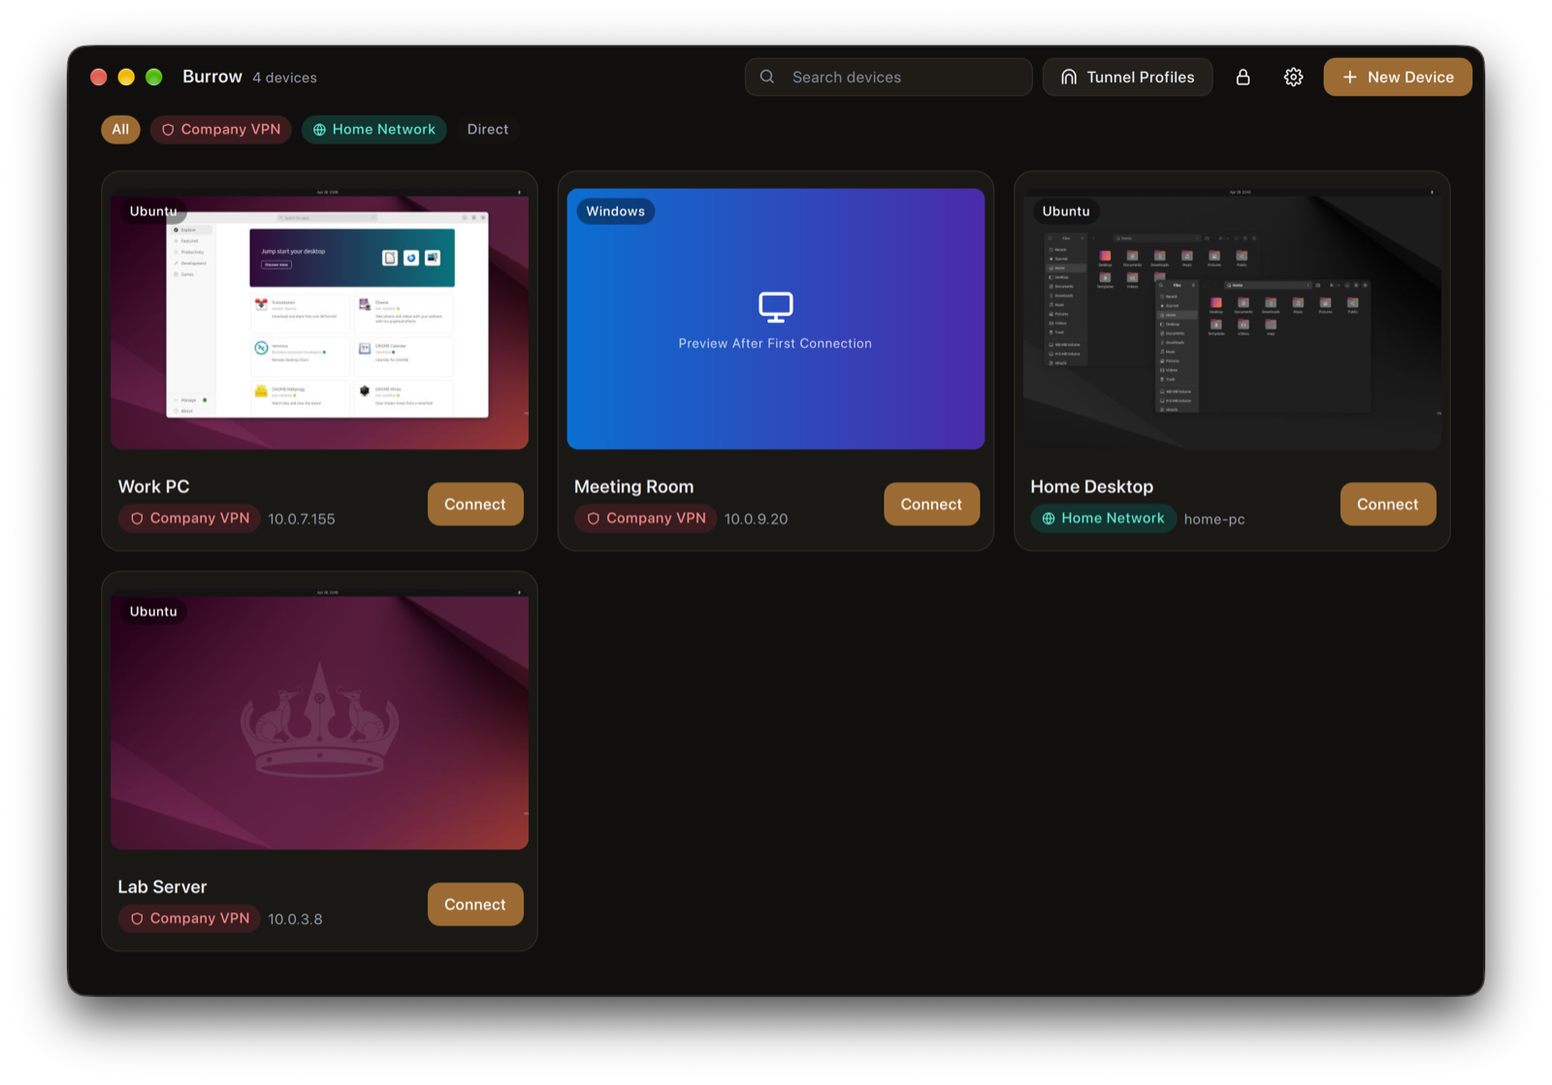
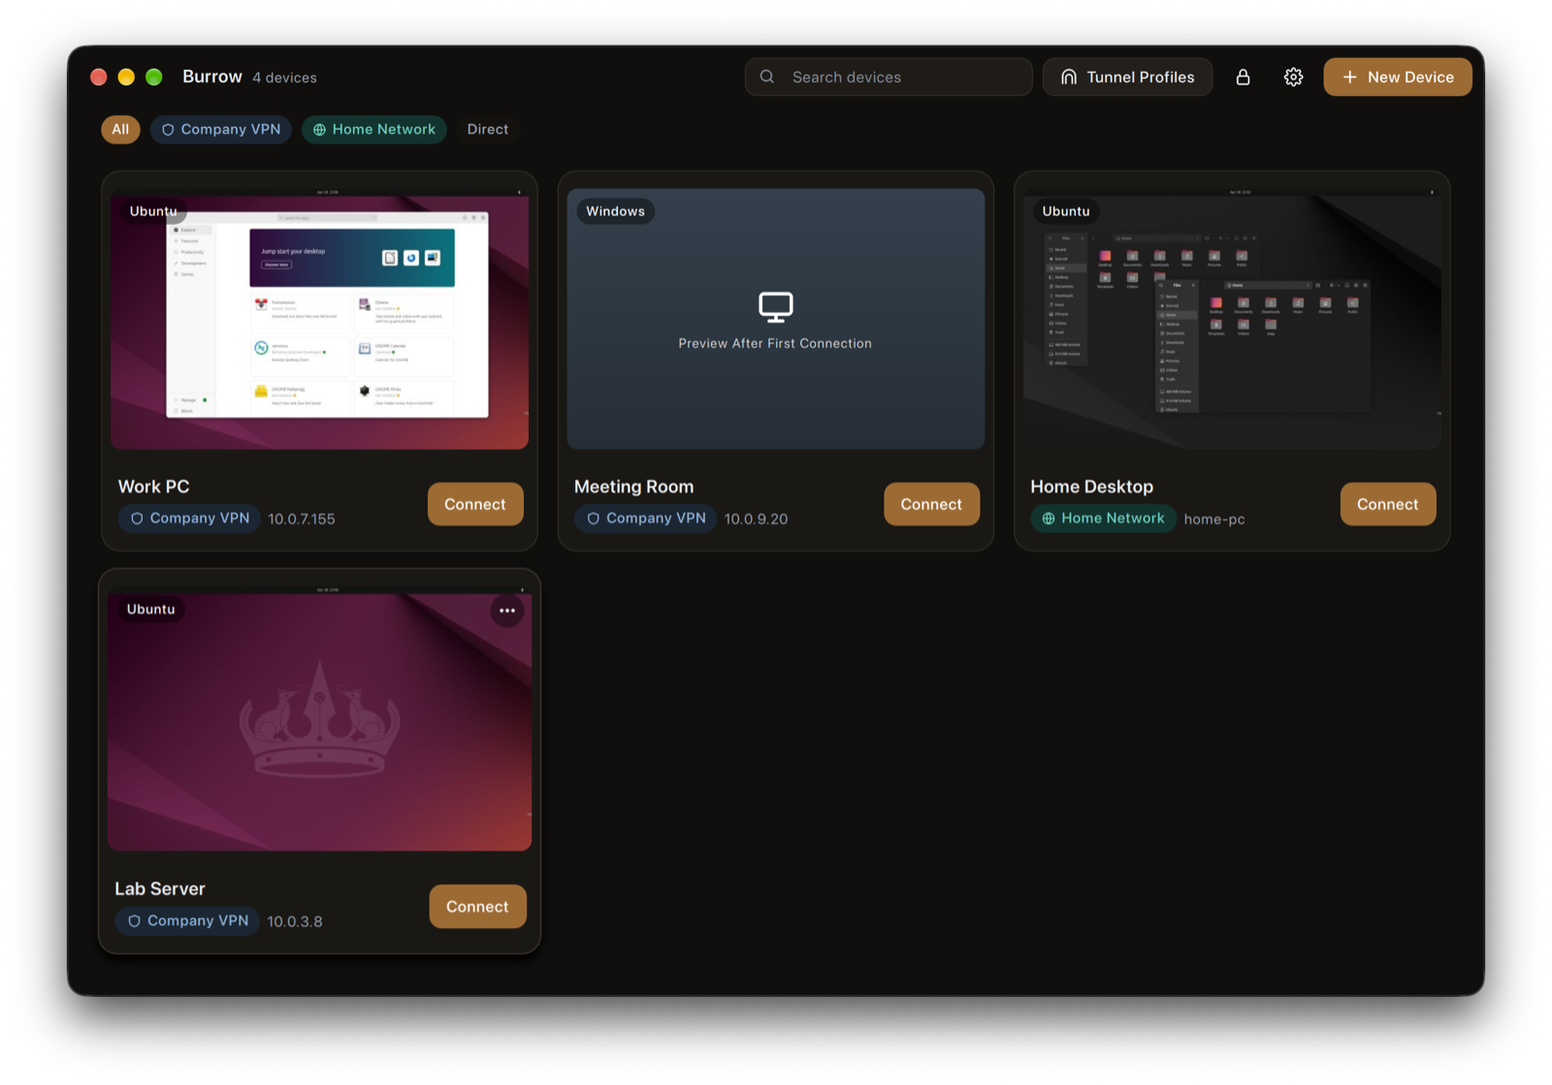
docs: rewrite the README in JumpDesk's layout with fresh screenshots
English only. Adds tools/readme-shots.sh, which re-takes the eight README
screenshots from the built app with demo data and real window frames.

diff --git a/README.md b/README.md
@@ -1,175 +1,181 @@
 <p align="center">
-  <picture>
-    <source media="(prefers-color-scheme: dark)" srcset="docs/images/gallery-dark.png">
-    <img src="docs/images/gallery-light.png" alt="Burrow's device gallery: computers as cards with their last screen" width="820">
-  </picture>
+  <img src="app/resources/icons/256x256.png" width="112" alt="Burrow logo">
 </p>
 
 <h1 align="center">Burrow</h1>
 
 <p align="center">
-  <b>Remote desktop through a private tunnel — without touching the rest of your computer.</b><br>
-  An open-source remote desktop app for macOS: RDP to Windows and Ubuntu, Screen Sharing to Macs,
-  with GlobalProtect, Tailscale and Cloudflare tunnels built in.
+  An open-source remote desktop app for macOS with <strong>private tunnels built in</strong>:
+  RDP to Windows and Ubuntu, Screen Sharing to Macs.
 </p>
 
 <p align="center">
-  <a href="https://github.com/metin-aydin/Burrow/releases/latest"><img alt="Latest release" src="https://img.shields.io/github/v/release/metin-aydin/Burrow?display_name=tag&sort=semver"></a>
-  <a href="https://github.com/metin-aydin/Burrow/actions/workflows/ci.yml"><img alt="CI" src="https://github.com/metin-aydin/Burrow/actions/workflows/ci.yml/badge.svg?branch=development"></a>
-  <a href="LICENSE"><img alt="License: MIT" src="https://img.shields.io/badge/license-MIT-blue.svg"></a>
-  <img alt="Platform: macOS" src="https://img.shields.io/badge/platform-macOS%20(Apple%20silicon)-lightgrey">
+  <a href="https://github.com/metin-aydin/Burrow/actions/workflows/ci.yml"><img src="https://github.com/metin-aydin/Burrow/actions/workflows/ci.yml/badge.svg" alt="CI"></a>
+  <a href="LICENSE"><img src="https://img.shields.io/badge/license-MIT-blue.svg" alt="License: MIT"></a>
 </p>
 
-> **[Türkçe açıklama aşağıda ↓](#türkçe)**
+Burrow puts every computer you reach into one gallery, each card showing its last screen. It connects to Windows and
+Ubuntu over RDP and to Macs over Screen Sharing, and it opens the **GlobalProtect, Tailscale or Cloudflare tunnel**
+those computers sit behind by itself, inside the app only: your browser, calls and the rest of the system stay on your
+normal network. Remote monitors open as tabs that you can drag onto your own displays, one-time codes are typed for
+you, and every secret stays in an encrypted vault on your Mac.
 
----
+> Burrow is an independent project and is not affiliated with Palo Alto Networks, Tailscale, Cloudflare or Apple.
 
-## Why Burrow?
+<p align="center">
+  <picture>
+    <source media="(prefers-color-scheme: dark)" srcset="docs/images/gallery-dark.png">
+    <img src="docs/images/gallery-light.png" alt="The device gallery: computers as cards with their last screen, filtered by tunnel">
+  </picture>
+</p>
 
-Reaching your work computer usually means switching on a VPN that reroutes *all* of your traffic, then
-opening a separate remote desktop app that doesn't always cooperate. Burrow does both in one place:
+## Tunnels inside the app
 
-- **The tunnel lives inside the app.** GlobalProtect (openconnect), Tailscale (tsnet) and Cloudflare Access
-  run in userspace, only for Burrow's own connections. Your browser, calls and the rest of the system stay
-  on your normal network. No admin rights, no system VPN.
-- **One window, every screen.** Each remote monitor opens as a tab; drag a tab onto another display to give
-  it its own window, full screen if you like. Burrow remembers the layout per computer.
-- **Signs in for you, OTP included.** Import your authenticator QR code once and Burrow types the one-time
-  code itself, including two-step portal and gateway flows.
-- **Everything stays on your Mac, encrypted.** Computers, passwords, OTP secrets and screen previews live in
-  a local vault behind your master password (Argon2id + XChaCha20-Poly1305), with optional Touch ID.
-  No cloud, no account.
+Reaching a work computer usually means switching on a VPN that reroutes all of your traffic, then opening a separate
+remote desktop app. Burrow opens the tunnel itself, only for its own connections.
+
+![A GlobalProtect tunnel profile with automatic one-time codes](docs/images/tunnel-editor.png)
+
+- **Nothing changes on your system.** GlobalProtect (openconnect), Tailscale (tsnet) and Cloudflare Access run in
+  userspace inside Burrow. There is no system VPN, no network extension and no admin password.
+- **GlobalProtect with one-time codes.** Import your authenticator's QR code or `otpauth://` link once and Burrow types
+  the code for you, appended to the password or in a separate step, including two-step portal and gateway flows.
+- **Tailscale and Headscale.** Sign in with one button in your browser, then pick the machines in your tailnet to add
+  them as devices.
+- **Cloudflare Access.** Reach computers published with cloudflared; you sign in once in the browser and the token is
+  kept in the vault.
+- **Tunnels follow your devices.** Each device picks its tunnel profile; connecting to it opens the tunnel, and the
+  gallery shows which tunnels are up.
+- **A test before you save.** Each profile can be tested on the spot; a rejected login is never retried, so your
+  account is not locked out.
+
+| | |
+| --- | --- |
+| ![The tunnel profiles list](docs/images/tunnel-profiles.png) | ![A Tailscale tunnel profile](docs/images/tailscale-editor.png) |
+| **Tunnel profiles** with their type, server and how many devices use them. | **Tailscale**: nothing to fill in; sign in, then import machines from your tailnet. |
+
+**Security.** Computers, passwords, OTP keys and screen previews live in a local vault encrypted with your master
+password (Argon2id and XChaCha20-Poly1305), and the vault can be unlocked with Touch ID. Nothing is sent to a cloud
+service and there is no account. RDP servers are pinned on first use and Burrow refuses to connect if the certificate
+changes. Secrets are never written to logs. To report a vulnerability, see [SECURITY.md](SECURITY.md).
 
 ## Features
 
+- **Gallery** of every computer as a card with its last screen, filtered by tunnel and searchable.
+- **RDP to Windows and Ubuntu** with FreeRDP 3: H.264 (AVC444/AVC420) decoded in hardware, progressive RemoteFX as a
+  fallback, GNOME Remote Login hand-over and certificate pinning.
+- **Screen Sharing to Macs** with a built-in VNC client that speaks Apple's protocol: sign in with the Mac's user,
+  encrypted session, the Mac's displays as tabs, Adaptive picture quality and the Mac's own pointer shapes.
+- **Multi-monitor**: one remote monitor per tab; drag a tab onto another display to give it its own window, full
+  screen if you like. Burrow remembers the layout for each computer.
+- **Tunnels**: GlobalProtect with OTP (TOTP SHA-1/256/512), Tailscale and Headscale, Cloudflare Access. See
+  [Tunnels inside the app](#tunnels-inside-the-app).
+- **Sessions**: automatic sign-in and an option to lock the remote computer when you disconnect.
+- **Clipboard and keyboard**: two-way clipboard over RDP (text, rich text, images); Mac shortcuts translated
+  (Cmd+C → Ctrl+C) or swapped.
+- **Encrypted local vault** with a master password, Touch ID and auto-lock after inactivity; Burrow keeps running in
+  the menu bar when its window is closed.
+- **In-app updates** from GitHub Releases, verified by SHA-256 and the Developer ID team before they are installed.
+- English and Turkish interface, light and dark themes, VoiceOver labels and keyboard navigation.
+
+## Screenshots
+
 | | |
-|---|---|
-| **Gallery** | Every computer as a card with its last screen, filtered by tunnel, searchable |
-| **RDP** (Windows, Ubuntu) | FreeRDP 3 with H.264 (AVC444/AVC420) decoded in hardware, progressive RemoteFX fallback, one remote monitor per Mac display, GNOME Remote Login hand-over, certificate pinning |
-| **Macs** (Screen Sharing) | Built-in VNC client speaking Apple's own protocol: Mac user sign-in, encrypted session, the Mac's displays as tabs, Apple's Adaptive picture, the Mac's pointer shapes, Cmd stays Cmd |
-| **Tunnels** | GlobalProtect with OTP (TOTP SHA-1/256/512, appended or separate), Tailscale and Headscale with one-button sign-in and device import, Cloudflare Access |
-| **Sessions** | Automatic sign-in, lock the remote computer when you disconnect, tabs and windows that remember where you left them |
-| **Clipboard & keyboard** | Two-way clipboard (text, rich text, images over RDP), Mac shortcuts translated (Cmd+C → Ctrl+C) or swapped |
-| **App** | Light and dark appearance, English and Turkish, menu bar presence with auto-lock |
-| **Updates** | Signed and notarized releases; the app updates itself and verifies every download (SHA-256 and the Developer ID team) |
+| --- | --- |
+| ![The lock screen](docs/images/lock-screen.png) | ![The gallery in the dark theme](docs/images/gallery-dark.png) |
+| **Lock screen**: the vault opens with your master password or Touch ID. | **Gallery** in the dark theme, with each computer's tunnel and address. |
+| ![Adding a Mac over Screen Sharing](docs/images/device-editor.png) | ![A GlobalProtect profile with automatic codes](docs/images/tunnel-editor.png) |
+| **New device**: Windows, Ubuntu or a Mac, with its address, tunnel and user. | **GlobalProtect** with one-time codes from your authenticator. |
+| ![Settings](docs/images/settings.png) | ![The tunnel profiles list](docs/images/tunnel-profiles.png) |
+| **Settings**: language, appearance, Touch ID, auto-lock, master password and updates. | **Tunnel profiles**, tested and used by your devices. |
 
-<p align="center">
-  <img src="docs/images/device-editor.png" alt="Adding a Mac: Screen Sharing over VNC" width="49%">
-  <img src="docs/images/tunnel-editor.png" alt="A GlobalProtect tunnel profile with automatic one-time codes" width="49%">
-</p>
+Screenshots are taken from the built app with sample data by `tools/readme-shots.sh`.
 
-## Install
+## Download
 
-Download the latest `.dmg` from [Releases](https://github.com/metin-aydin/Burrow/releases/latest) (the
-first release is on its way; until then, [build it](#building-macos)), open it and drag **Burrow** to
-Applications. Builds are signed with Developer ID and notarized by Apple; later
-versions install themselves from inside the app.
+Get the latest version from the [Releases](https://github.com/metin-aydin/Burrow/releases/latest) page. The first
+release is being prepared; until then, [build it](#development).
 
-Requires macOS 13 or later on Apple silicon. Ubuntu and Windows builds are planned.
+| Platform | File | Updates |
+| --- | --- | --- |
+| macOS 13 or later (Apple Silicon) | `Burrow-<version>-mac-arm64.dmg` | In the app |
 
-To reach a Mac, turn on **System Settings → General → Sharing → Screen Sharing** on it. To reach Ubuntu,
-turn on **Remote Desktop** in Settings → System (or Remote Login, where your GNOME offers it).
+Open the `.dmg` and drag **Burrow** to Applications. Builds for Ubuntu and Windows are planned.
 
-## Status
+To reach a Mac, turn on **System Settings → General → Sharing → Screen Sharing** on it. To reach Ubuntu, turn on
+**Remote Desktop** in **Settings → System** (or Remote Login, where your GNOME offers it).
 
-Burrow is young and moving fast.
+Burrow looks for a new version 15 seconds after startup and every six hours. When it finds one, **Settings → Updates**
+downloads it, installs it and restarts the app. Nothing is downloaded or installed without asking, and automatic
+checks can be turned off there.
 
-- [x] Encrypted vault, master password, Touch ID
-- [x] Embedded RDP sessions: multi-monitor tabs and windows, clipboard, H.264
-- [x] GlobalProtect, Tailscale and Cloudflare tunnels inside the app
-- [x] Macs over Screen Sharing (VNC), with their displays as tabs
-- [x] Signed releases and in-app updates
-- [ ] `burrow-agent` for Ubuntu: unlock on connect, lock on disconnect, turn the office monitor off
-- [ ] Clipboard for Macs (Apple's pasteboard protocol)
-- [ ] Ubuntu and Windows builds
+## Development
 
-Requirements: [docs/SPEC.md](docs/SPEC.md) · Architecture decisions: [docs/decisions](docs/decisions)
-
-## Security
-
-- Secrets never leave the encrypted vault; they are not written to logs or test fixtures.
-- RDP servers are pinned on first use and Burrow refuses to connect if the certificate changes.
-- A wrong password is never retried automatically, so an account is not locked out.
-- Updates come only over HTTPS from this repository's releases, and are installed only if the archive
-  matches its SHA-256 and the new app is signed by the same Apple developer team.
-
-Found a vulnerability? Please report it privately — see [SECURITY.md](SECURITY.md).
-
-## Architecture
-
-```
-┌──────────────────── Burrow.app ────────────────────┐
-│  QML UI  ──  AppController (C++)                   │
-│                │                  │                │
-│     RDP: FreeRDP 3      VNC: own RFB client        │
-│     (H.264 via          (Apple 003.889, Adaptive)  │
-│      VideoToolbox)                │                │
-│                └───────┬──────────┘                │
-│        netcore (Go, linked as a C archive)         │
-│        ├─ libopenconnect ... GlobalProtect         │
-│        ├─ tsnet ............ Tailscale             │
-│        ├─ Cloudflare Access (WebSocket)            │
-│        └─ encrypted vault, TOTP                    │
-└────────────────────────────────────────────────────┘
-```
-
-Qt 6 (QML + C++20) · FreeRDP 3 · Go · see [ADR 0001](docs/decisions/0001-tech-stack.md)
-
-## Building (macOS)
+Requirements: macOS, Homebrew, Xcode command line tools. Burrow is written in Qt 6 (QML and C++20) with FreeRDP 3 and
+a Go network core linked as a C archive ([ADR 0001](docs/decisions/0001-tech-stack.md)).
 
 ```bash
+git clone https://github.com/metin-aydin/Burrow.git
+cd Burrow
 brew install go cmake ninja qt freerdp openconnect
 cmake -S . -B build -G Ninja -DCMAKE_PREFIX_PATH="$(brew --prefix qt);$(brew --prefix freerdp)"
 cmake --build build
 open build/app/Burrow.app
 ```
 
-Tests: `cd build && ctest` (C++) · `cd netcore && go test ./...` (Go)
-
-Try the interface with sample computers, in a throwaway vault:
+Try the interface with sample computers in a throwaway vault:
 
 ```bash
 BURROW_VAULT=/tmp/burrow-demo/vault.json build/app/Burrow.app/Contents/MacOS/Burrow --seed-demo
 ```
 
-## Project layout
+Checks:
 
-- `app/` — the Qt app: QML interface (`qml/`), controller, RDP and VNC sessions, vault wrapper
-- `netcore/` — Go network core: tunnels, TOTP, encrypted vault
-- `docs/` — requirements, architecture decisions (ADR), research, project memory
-- `.github/` — CI and automated releases (`development` → `master`)
+```bash
+(cd build && ctest --output-on-failure)   # C++ tests
+(cd netcore && go test ./...)             # Go tests
+cmake --build build --target Burrow_lupdate && git diff --exit-code -- app/i18n   # translations are up to date
+```
 
-## Contributing
+Requirements are in [docs/SPEC.md](docs/SPEC.md) and architecture decisions in [docs/decisions](docs/decisions).
 
-Issues and pull requests are welcome. Please read [CLAUDE.md](CLAUDE.md) first: it holds the project rules
-for people and AI assistants alike. Commits follow [Conventional Commits](https://www.conventionalcommits.org/);
-version numbers are derived from them.
+## Branches and releases
+
+- Work happens on `development`. `master` only changes through pull requests from `development`.
+- Each merge into `master` publishes a release. The [Release workflow](.github/workflows/release.yml) picks the
+  version, builds and signs the macOS package and attaches it to a new GitHub release, which the in-app updater then
+  offers to users. If any build fails, the draft release is deleted.
+- The description of that pull request becomes the release notes (see the
+  [pull request template](.github/pull_request_template.md)).
+- Versions come from [Conventional Commits](https://www.conventionalcommits.org/) since the previous release: `feat:`
+  raises the minor number, a breaking change (`feat!:` or `BREAKING CHANGE:`) the major number, anything else the
+  patch number ([ADR 0002](docs/decisions/0002-release-and-auto-update.md)).
+
+## Packaging
+
+```bash
+cmake -S . -B build -G Ninja -DCMAKE_BUILD_TYPE=Release \
+  -DCMAKE_PREFIX_PATH="$(brew --prefix qt);$(brew --prefix freerdp)"
+cmake --build build
+"$(brew --prefix qt)/bin/macdeployqt" build/app/Burrow.app -qmldir=app/qml   # bundle Qt, QML and libraries
+```
+
+Release builds of the macOS app are signed with a Developer ID certificate and notarized by Apple. The Release
+workflow reads these secrets from the `release` environment: `CSC_LINK` (the base64-encoded `.p12` certificate),
+`CSC_KEY_PASSWORD`, `APPLE_ID`, `APPLE_APP_SPECIFIC_PASSWORD` and `APPLE_TEAM_ID`. Without them the release stops,
+and local builds are left unsigned.
+
+## Issues and contributions
+
+Bug reports and feature requests are welcome on [GitHub Issues](https://github.com/metin-aydin/Burrow/issues).
+Pull requests go to the `development` branch, with commit messages in Conventional Commits format.
+User-facing text is written in English in the source and translated in `app/i18n/burrow_tr.ts`; run the
+`Burrow_lupdate` target before opening a pull request. [CLAUDE.md](CLAUDE.md) holds the project rules for people and AI
+assistants alike.
 
 ## License
 
-[MIT](LICENSE). Third-party components keep their own licenses: FreeRDP (Apache-2.0), Qt (LGPL-3.0),
-libopenconnect (LGPL-2.1), Tailscale (BSD-3-Clause). Burrow's Mac support builds on the Apple Screen
-Sharing research of [zDesk](https://github.com/andrewtheguy/zdesk) (MIT); see
-[THIRD_PARTY_NOTICES.md](THIRD_PARTY_NOTICES.md). Sample previews are GPL-licensed Ubuntu screenshots from
-Wikimedia Commons ([attribution](docs/assets/demo/ATTRIBUTION.md)).
-
----
-
-## Türkçe
-
-**Burrow**, iş veya ev bilgisayarına uzak masaüstüyle bağlanmanı sağlayan açık kaynak bir macOS
-uygulamasıdır. Windows ve Ubuntu'ya RDP ile, Mac'lere Ekran Paylaşımı ile bağlanır. GlobalProtect,
-Tailscale ve Cloudflare tünellerini **yalnızca uygulamanın içinde** açar: bilgisayarının geri kalan trafiği
-etkilenmez, yönetici yetkisi gerekmez.
-
-- **Tek pencere, bütün ekranlar:** her uzak monitör bir sekme; sekmeyi başka bir ekrana sürükleyip ayrı
-  pencere yapabilirsin, Burrow düzeni bilgisayar başına hatırlar.
-- **Otomatik OTP:** authenticator QR kodunu bir kez içe aktar, tek kullanımlık kodu Burrow girer.
-- **Şifreli yerel kasa:** cihazlar, şifreler, OTP anahtarları ve önizlemeler ana şifrenle şifrelenip yalnızca
-  bu Mac'te saklanır; Touch ID ile açılabilir.
-- **Mac'ler:** Ekran Paylaşımı ile, Mac kullanıcı adınla; Mac'in ekranları sekme olarak gelir.
-- **Güncellemeler:** imzalı ve Apple onaylı sürümler; uygulama kendini günceller ve her indirmeyi doğrular.
-
-Kurulum: [Releases](https://github.com/metin-aydin/Burrow/releases/latest) sayfasından `.dmg` dosyasını indir.
-Gereksinimler [docs/SPEC.md](docs/SPEC.md), kararlar [docs/decisions](docs/decisions) altında. Proje
-kuralları ve hafızası: [CLAUDE.md](CLAUDE.md), [docs/memory](docs/memory).
+[MIT](LICENSE). Third-party components keep their own licenses: FreeRDP (Apache-2.0), Qt (LGPL-3.0), libopenconnect
+(LGPL-2.1) and Tailscale (BSD-3-Clause). Mac support builds on the Apple Screen Sharing research of
+[zDesk](https://github.com/andrewtheguy/zdesk) (MIT); see [THIRD_PARTY_NOTICES.md](THIRD_PARTY_NOTICES.md). Sample
+previews are GPL-licensed Ubuntu screenshots from Wikimedia Commons ([attribution](docs/assets/demo/ATTRIBUTION.md)).

diff --git a/docs/memory/LOG.md b/docs/memory/LOG.md
@@ -4,6 +4,32 @@ En yeni kayıt en üstte.
 
 ## 2026-11-15
 
+- **README JumpDesk formatında yeniden yazıldı:** ortalanmış logo + başlık, CI/lisans rozetleri, giriş, öne çıkan bölüm
+  ("Tunnels inside the app" + Security), Features, Screenshots tablosu, Download, Development, Branches and releases,
+  Packaging, Issues and contributions, License. Türkçe bölüm kaldırıldı (README tamamen İngilizce).
+  `tools/readme-shots.sh` 8 görüntü üretiyor (kilit ekranı, tünel listesi, Settings, Tailscale editörü eklendi).
+- **İkinci critique 28/40 + düzeltmeler:** Cmd+F aramaya odaklar, Cmd+, Settings'i açar (dialog açıkken çalışmaz), kartta
+  sağ tık menüsü. Tünel editörü: OTP Type seçiminin ne demek olduğunu söyleyen satır, Gateway / Group ipucu,
+  Cloudflare test alanı "Hostname To Test" + yalnızca test için olduğunu söyleyen ipucu (alan zaten profile
+  kaydedilmiyordu; critique'teki "yanlış yerde" bulgusu kısmen yanlıştı). Settings ayrı pencere: yapılmayacak (kullanıcı kararı).
+- **Impeccable polish:** Türkçe arayüz, açık/koyu temada 20 ekran kontrol edildi; taşma/kesilme yok. README görüntüleri
+  (`docs/images/`) yeni renklerle `tools/readme-shots.sh` ile yeniden çekildi (çerçeve + gölge, 1600 px).
+  İlk critique kaydı `app/qml` değiştiği için araç tarafından kapatıldı. Kalan: elle VoiceOver testi.
+- **Impeccable layout:** `BDialog` uzun içerikte kaydırma işareti (başlık altında ince çizgi, footer'a doğru fade);
+  tünel editöründe Key tam genişlik, Algorithm/Digits/Period "Advanced Settings" altında (standart dışı değer
+  varsa kendiliğinden açılır). Tünel satırı hizası zaten doğruydu (critique bulgusu yanlıştı).
+- **Impeccable typeset:** `Theme.qml`'e role göre yazı ölçeği (9/11/12/13/14/15/18/22); 81 sabit `pixelSize` token'a
+  taşındı (17→18, 20→22). `SectionTitle` 15 DemiBold + üstte 14 px boşluk, `Heading` rolü; Settings ve tünel
+  editöründe bölümler artık alan etiketlerinden ayrışıyor. Connect butonuna dokunulmadı (kullanıcı kararı).
+- **Impeccable harden:** VoiceOver adları (BButton tip→ad, BSwitch, BField, Chip, Segmented, kart, "Connect To %1",
+  kart menüsü klavye odağında görünür), Chip/Segmented klavye desteği + odak halkası, gösterim çipleri `interactive: false`.
+  Sonuçsuz aramada neyin gizlediğini söyleyen mesaj + Clear Search / Show All Devices; aramada Esc temizler.
+  "1 devices" düzeltildi. 15 yeni metin çevrildi. Demo: `BURROW_DEMO_OPEN=nomatch`. VoiceOver ağacı terminalden
+  doğrulanamadı (System Events izni yok); elle VoiceOver testi bekliyor.
+- **Impeccable critique + colorize:** `app/qml` ilk critique 27/40 (`.impeccable/critique/`). Colorize: GlobalProtect
+  kırmızı → denim, Cloudflare turuncu → erik (danger/warning/vurgu ile çakışıyordu), kart yer tutucusundaki mavi-mor
+  gradyan → OS başına tek tonlu koyu zemin. Kontrast ≥4.9:1 hesaplandı, açık/koyu ekran görüntüsüyle doğrulandı.
+  `docs/images/` README görüntüleri henüz eski renklerde.
 - Güvenlik incelemesi (CI): govulncheck `@v1.1.4`'e sabitlendi; CodeQL PR'larda da çalışıyor (yalnız development/master hedefli;
   fork PR'ları zaten salt-okunur jeton alır, `pull_request_target` kullanılmaz). Eylemleri SHA'ya sabitleme doğrulanamadığı için yapılmadı; Dependabot etiketleri izliyor.
 
